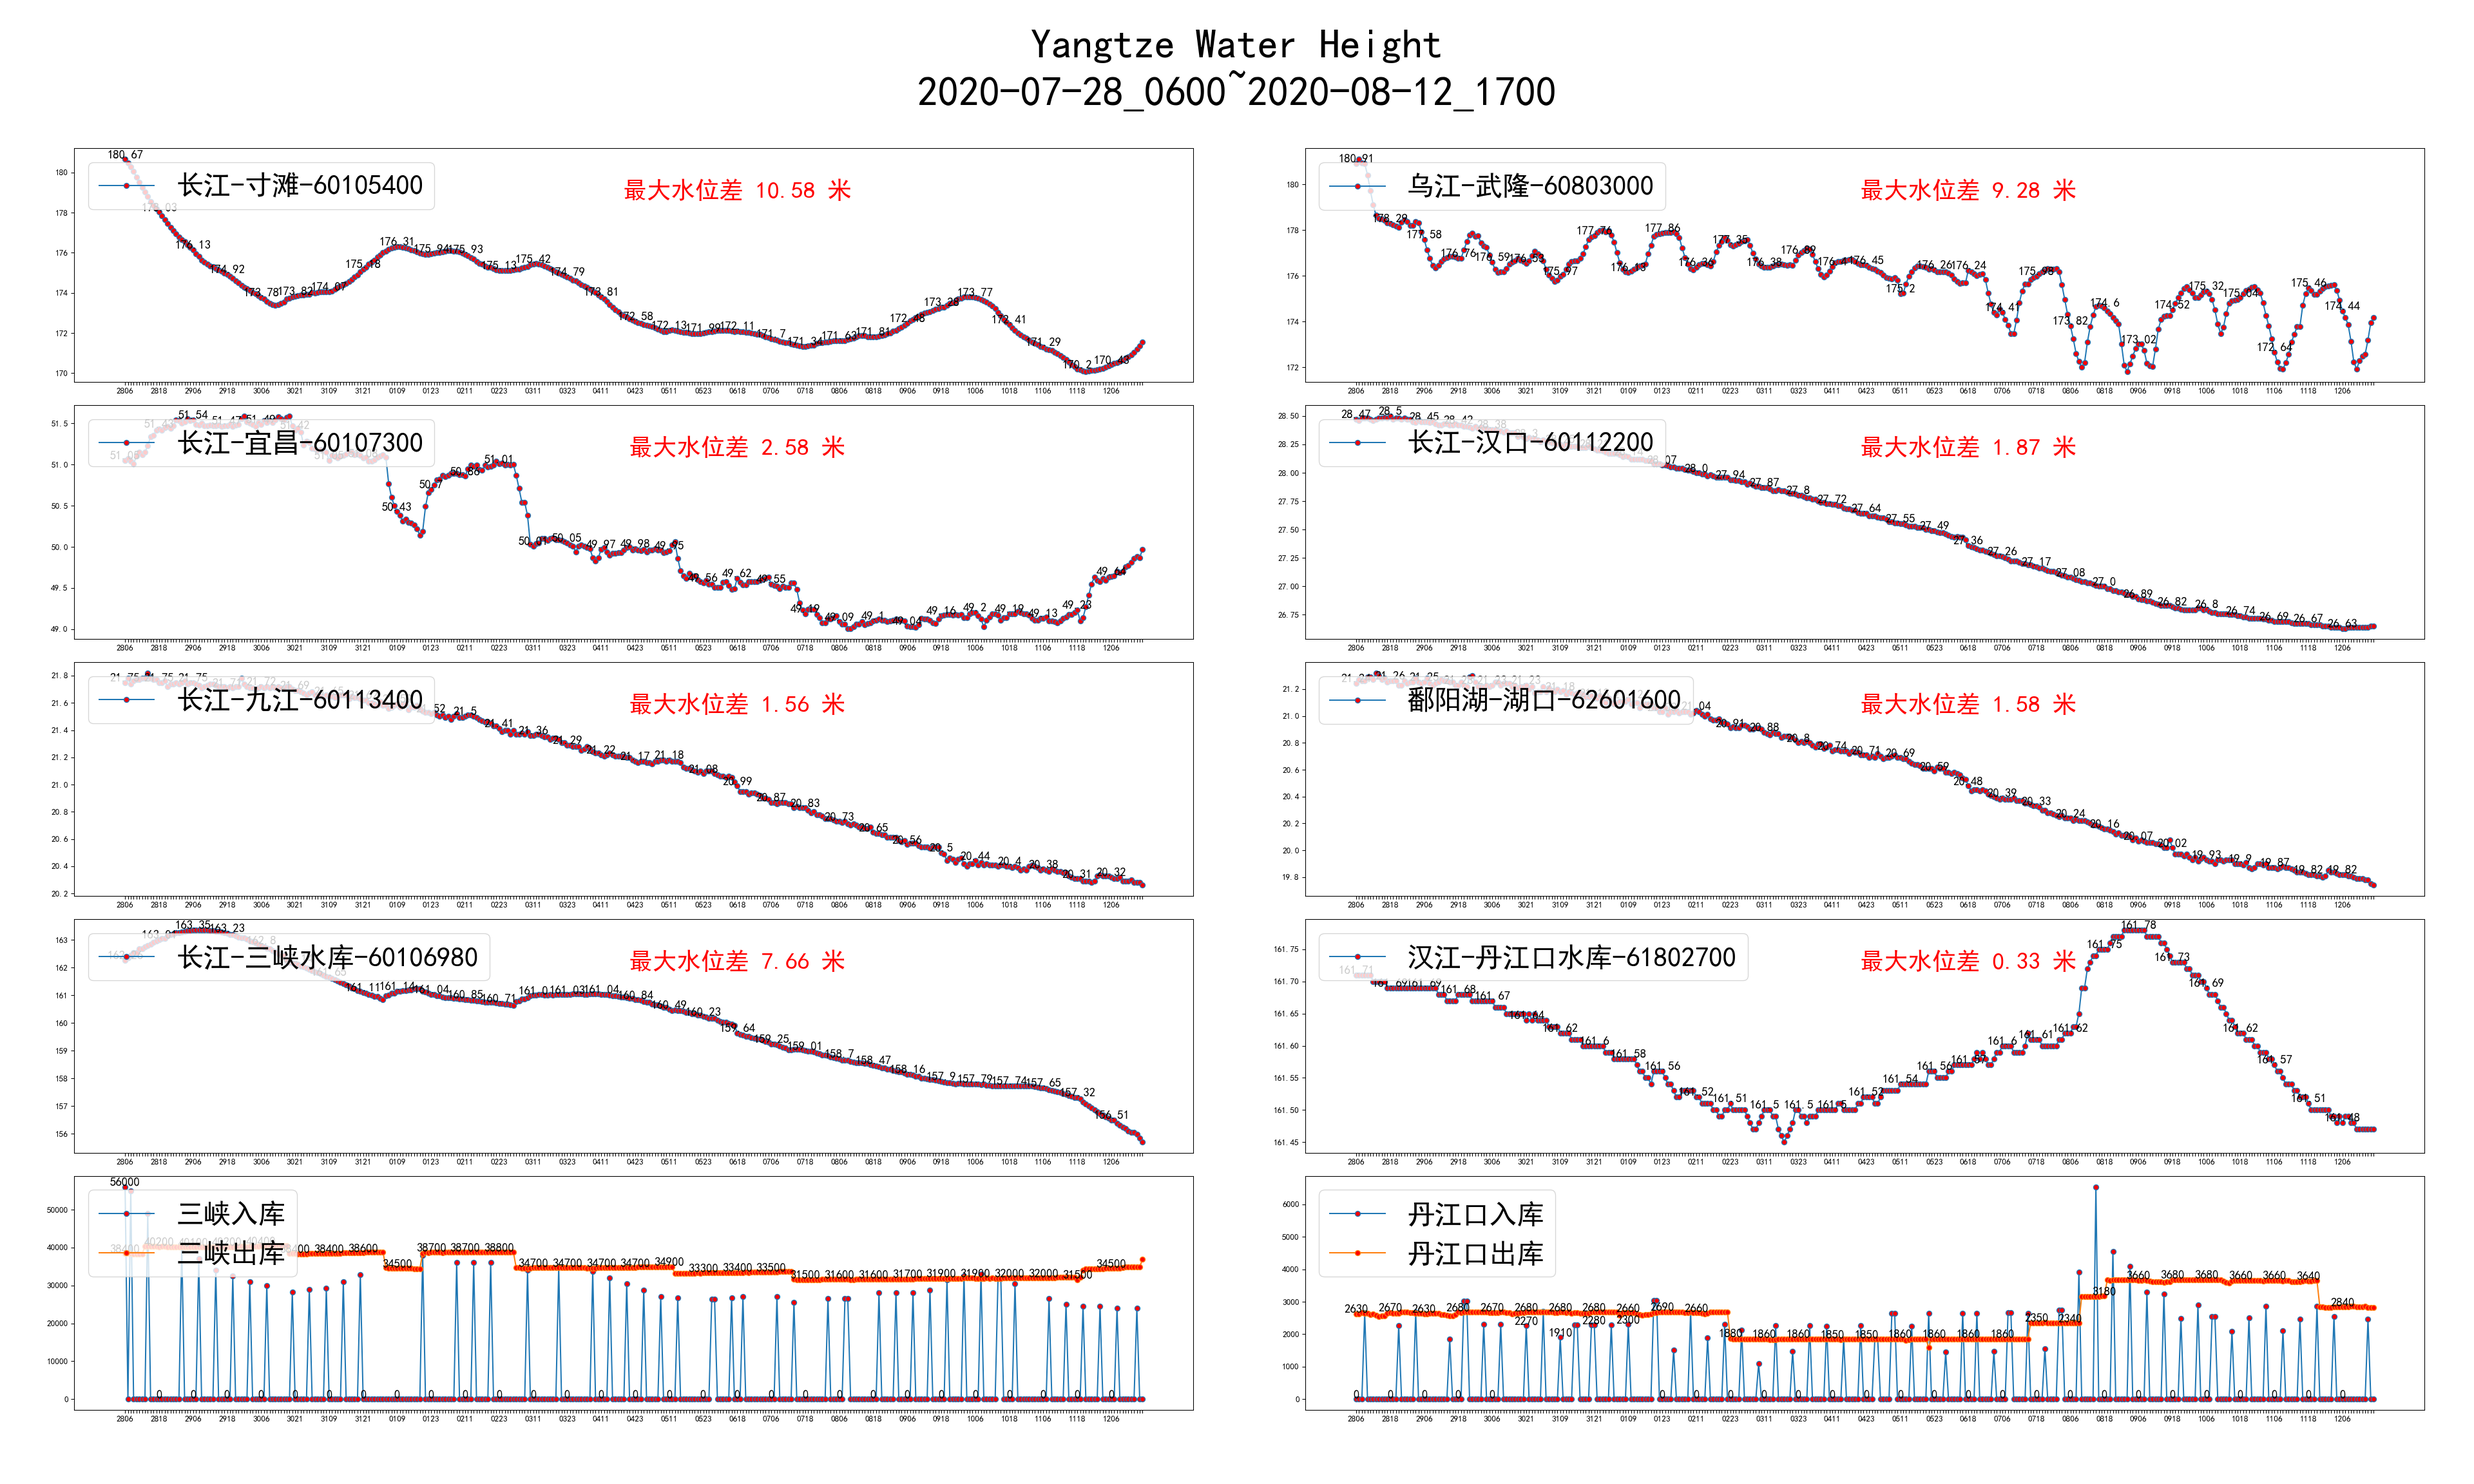
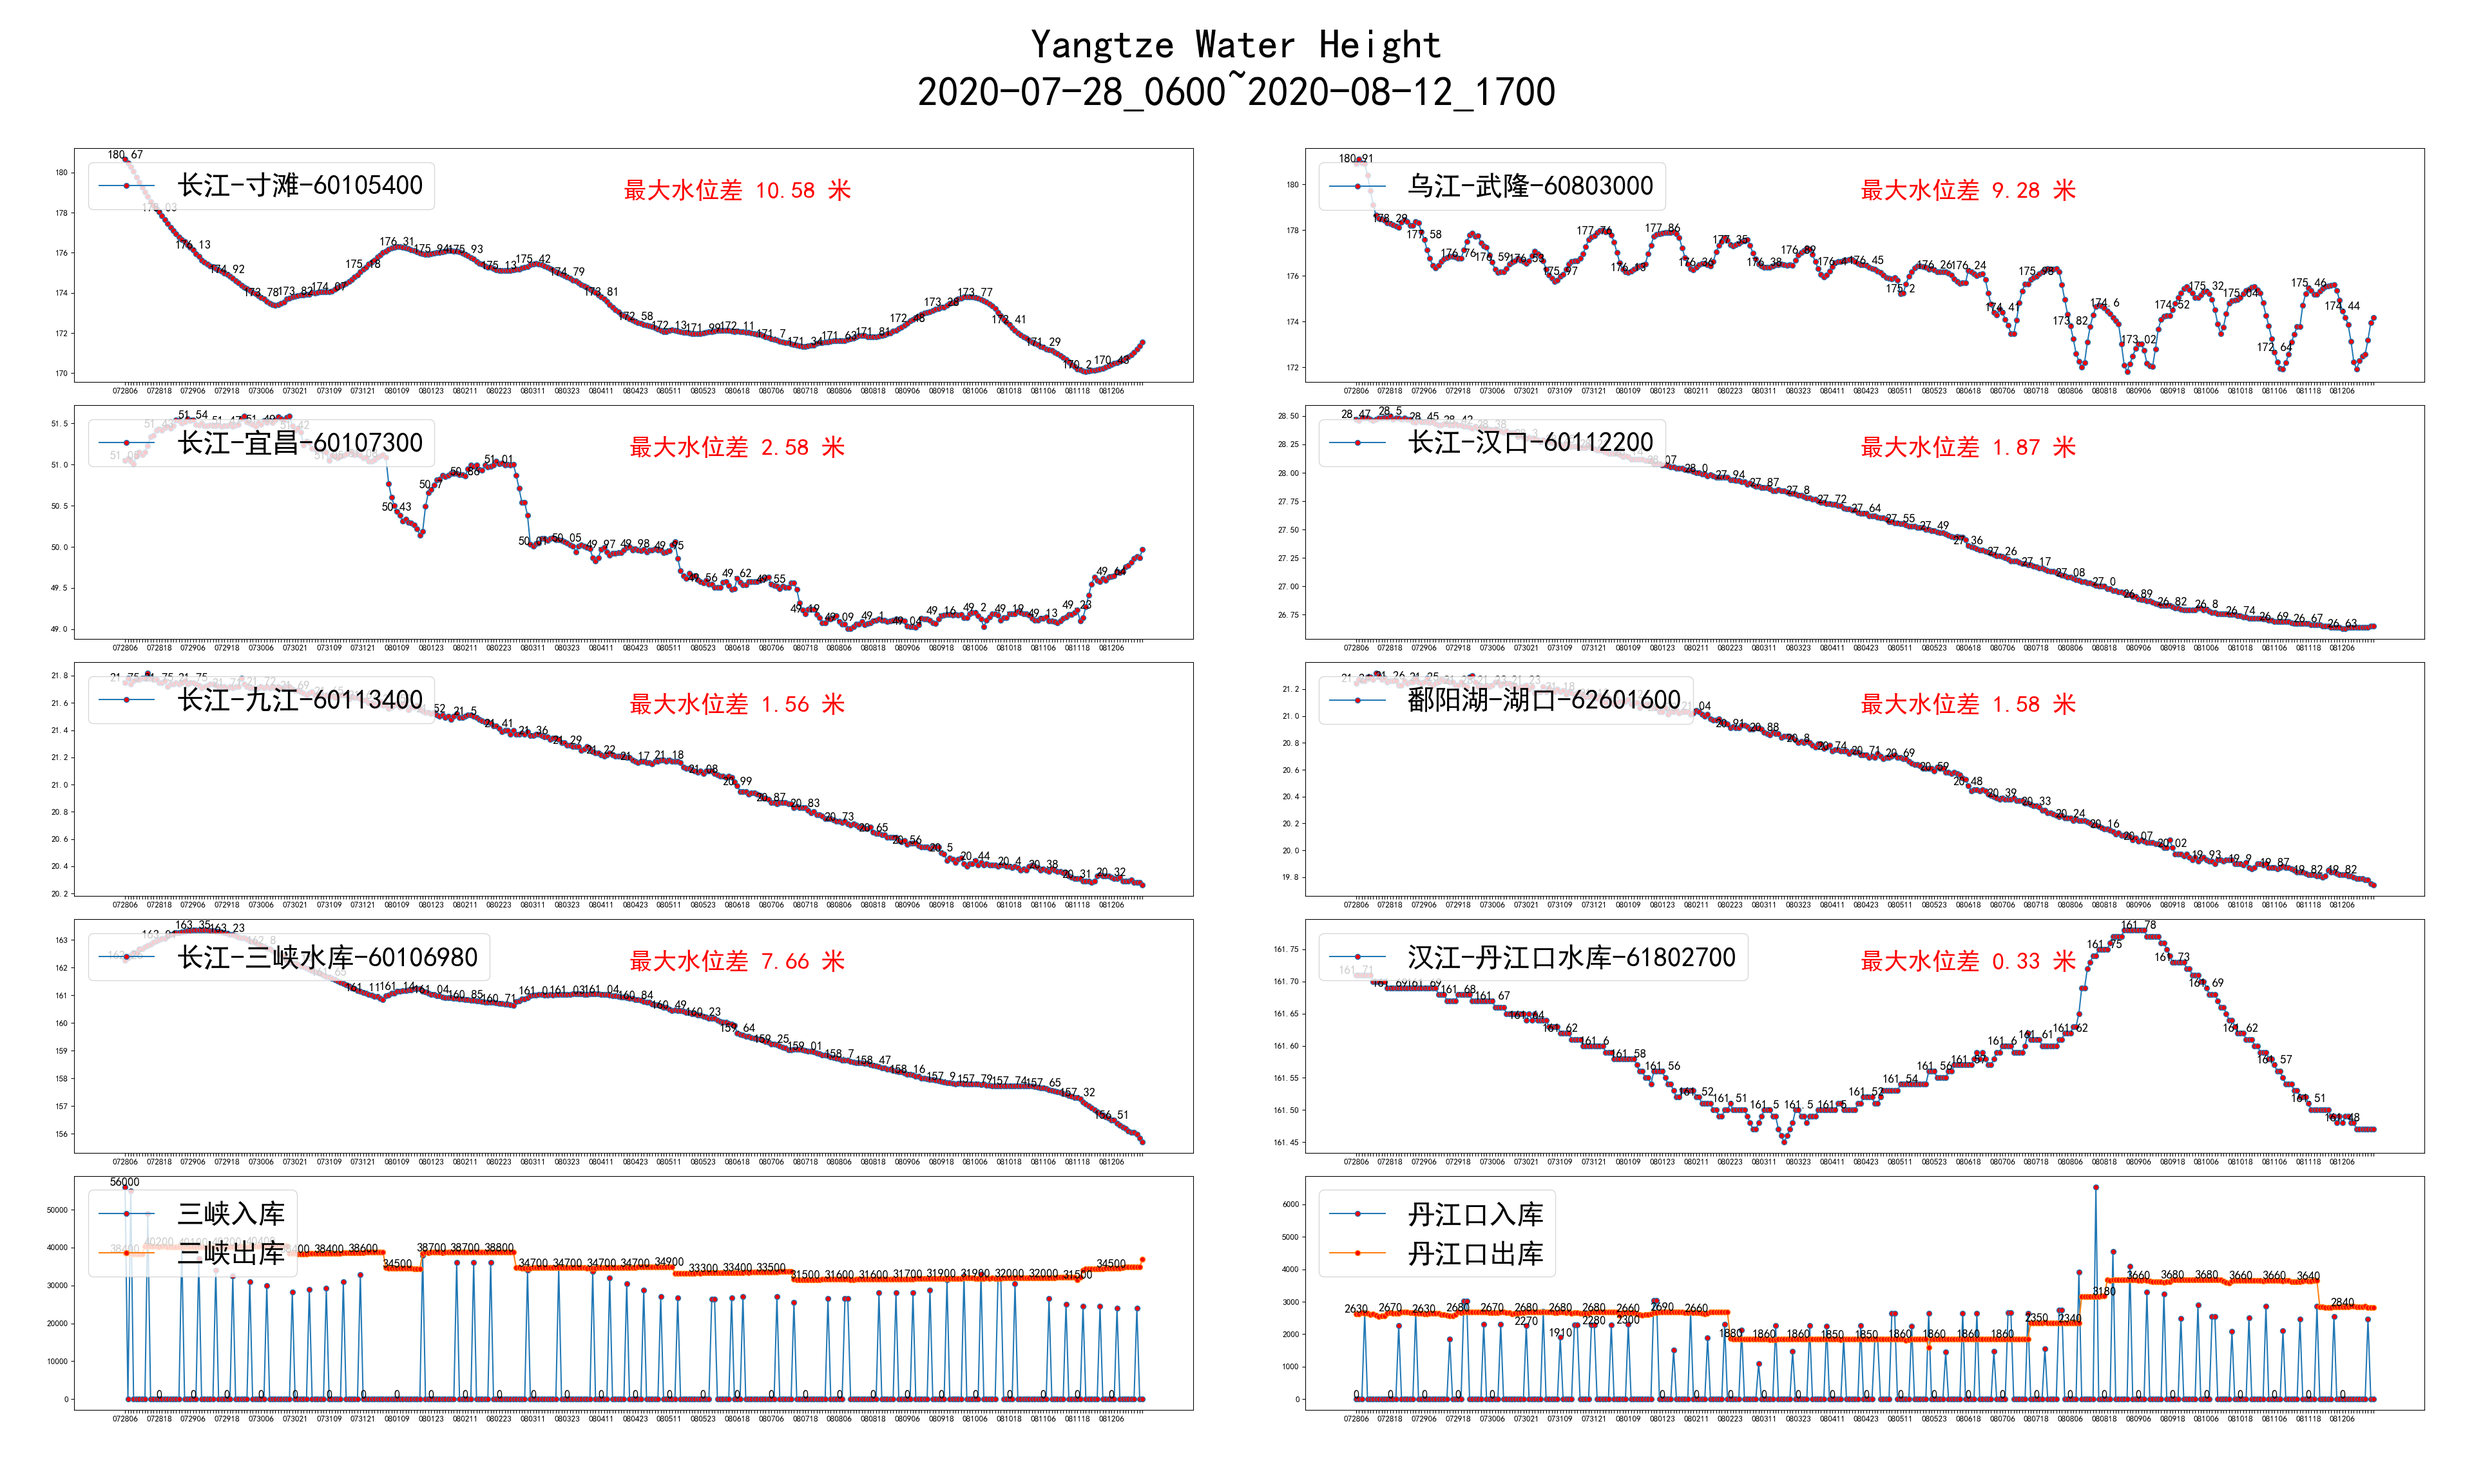
more datas, auto commit

diff --git a/water.py b/water.py
@@ -78,7 +78,7 @@ def plot(last=360, st=None):
         with open(datas[fd], 'r', encoding='utf-8') as f:
             d = json.load(f)
 
-        lastx.append(time.strftime("%d%H", time.localtime(d[0]["tm"]/1000)))
+        lastx.append(time.strftime("%m%d%H", time.localtime(d[0]["tm"]/1000)))
         for s in d:
             if st is None or s['stcd'] in st:
                 if not s['stcd'] in lasty.keys():
